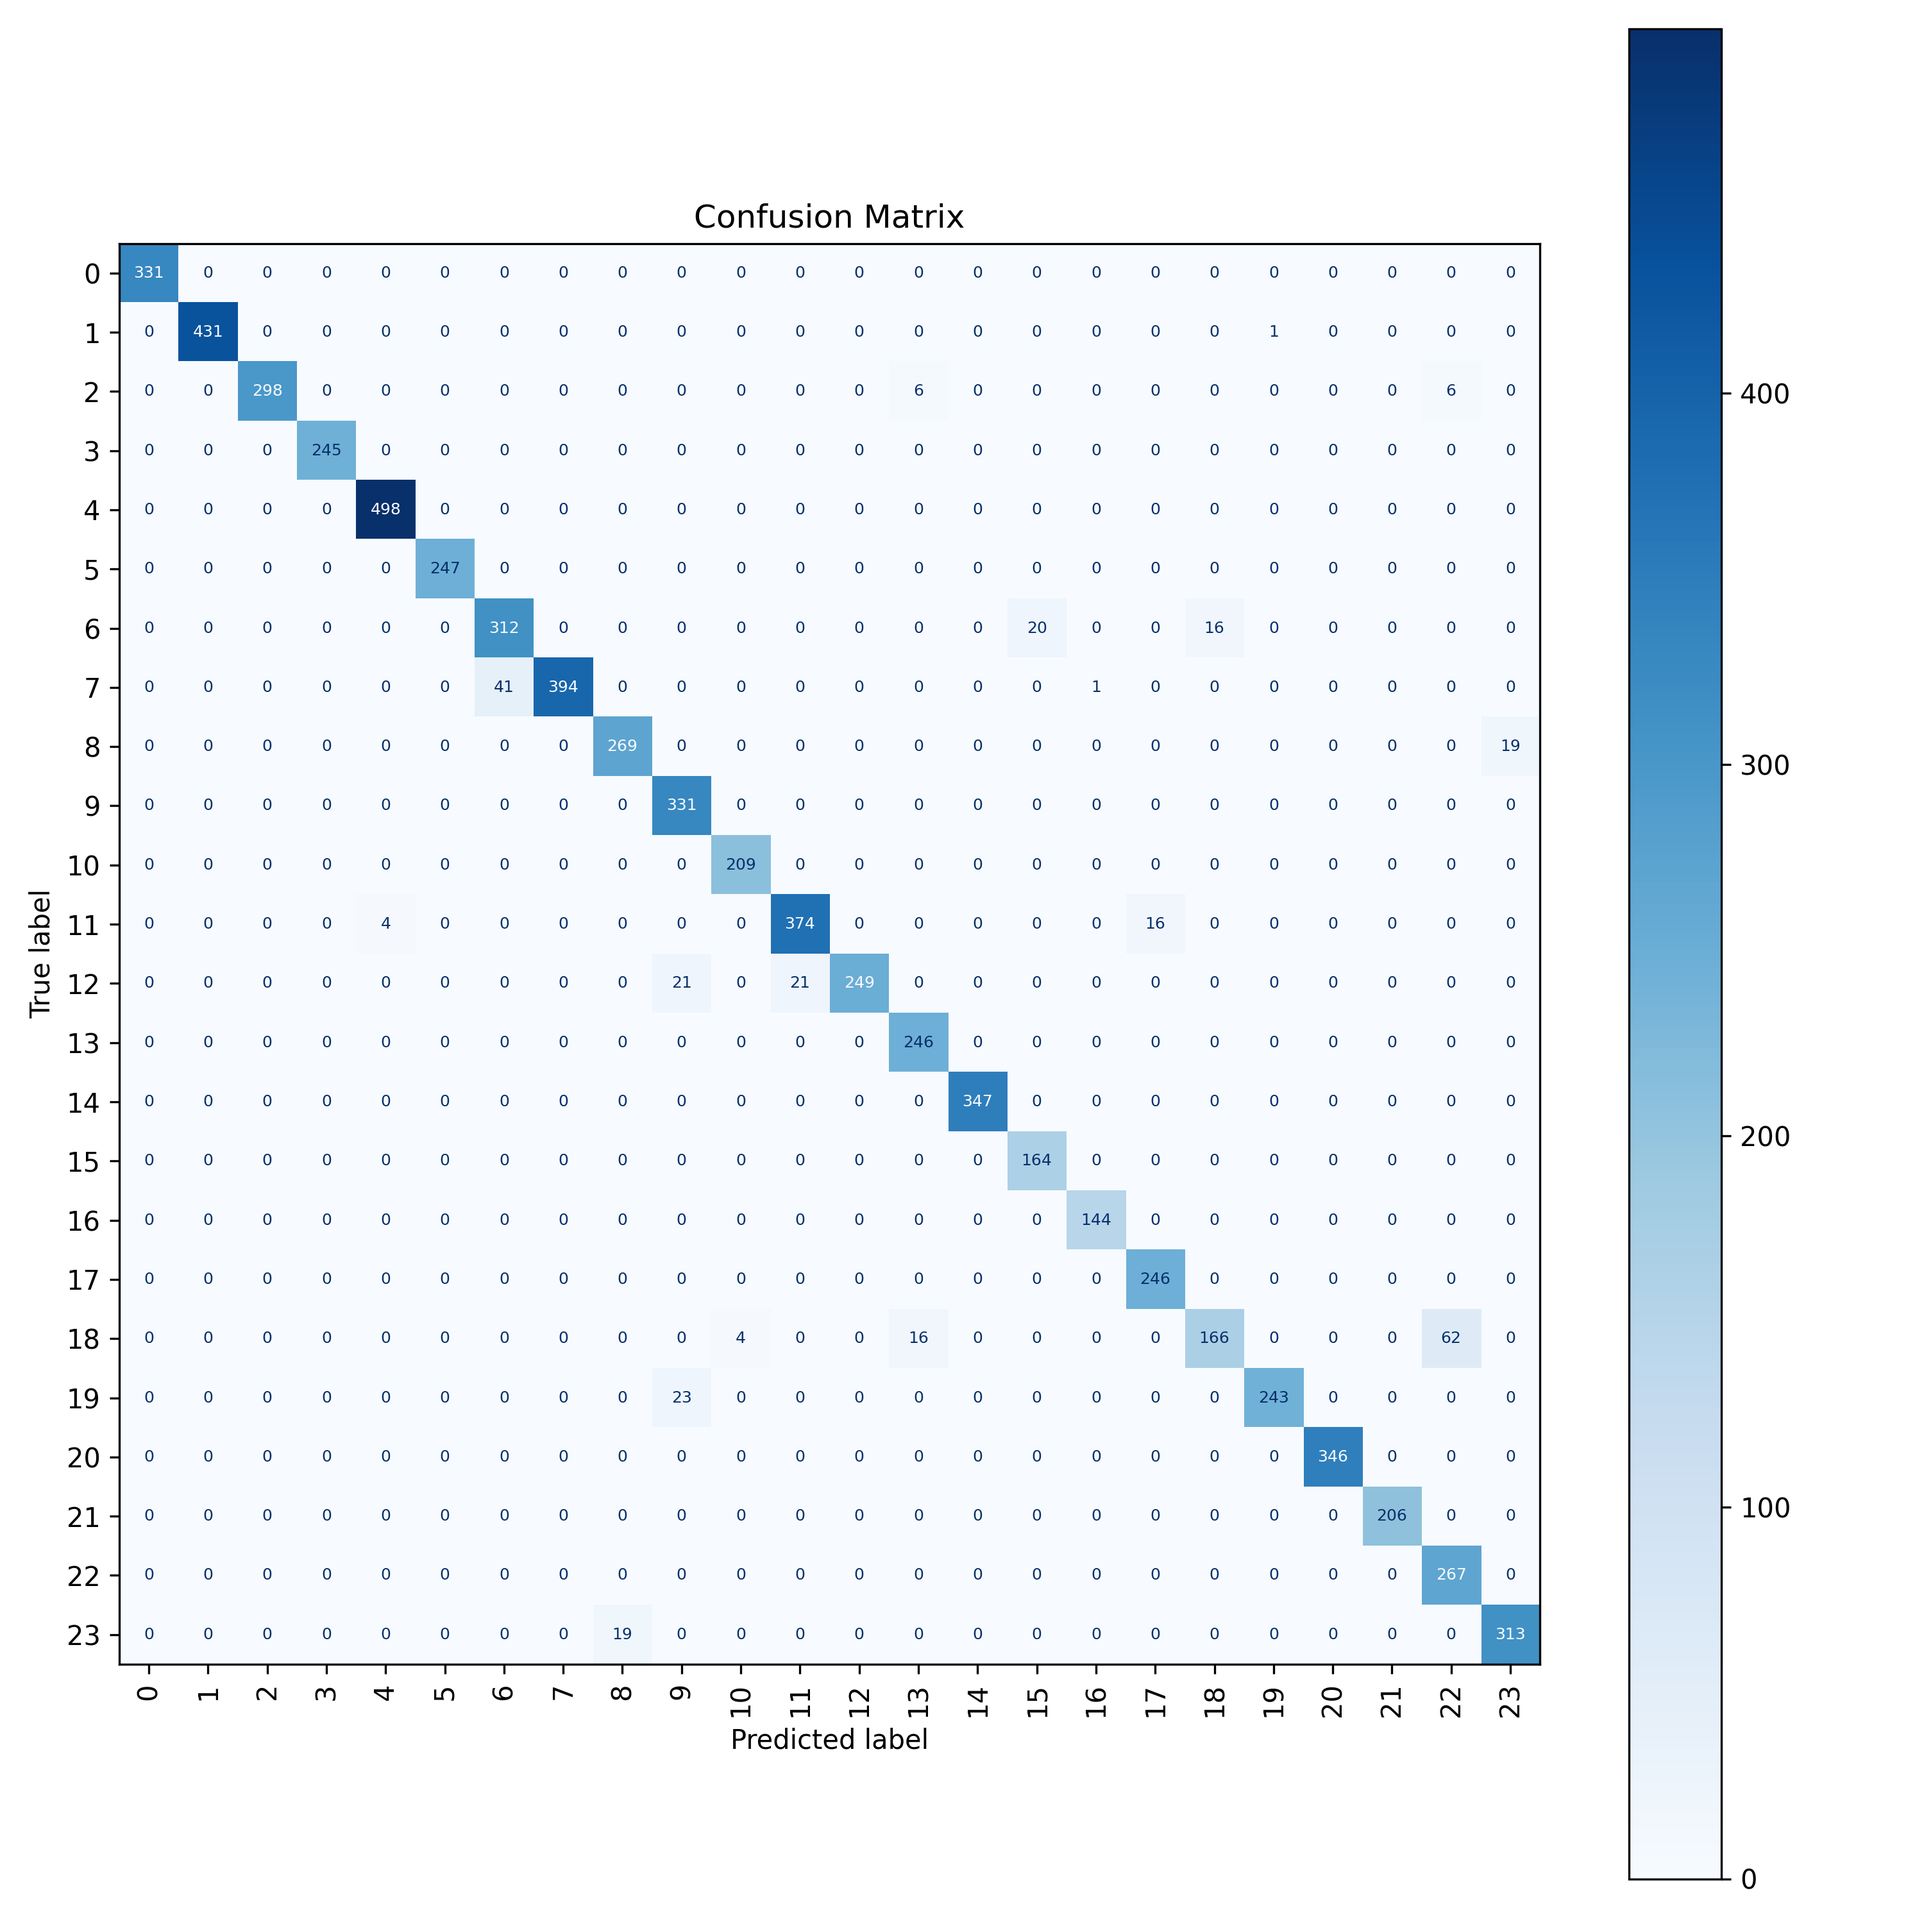
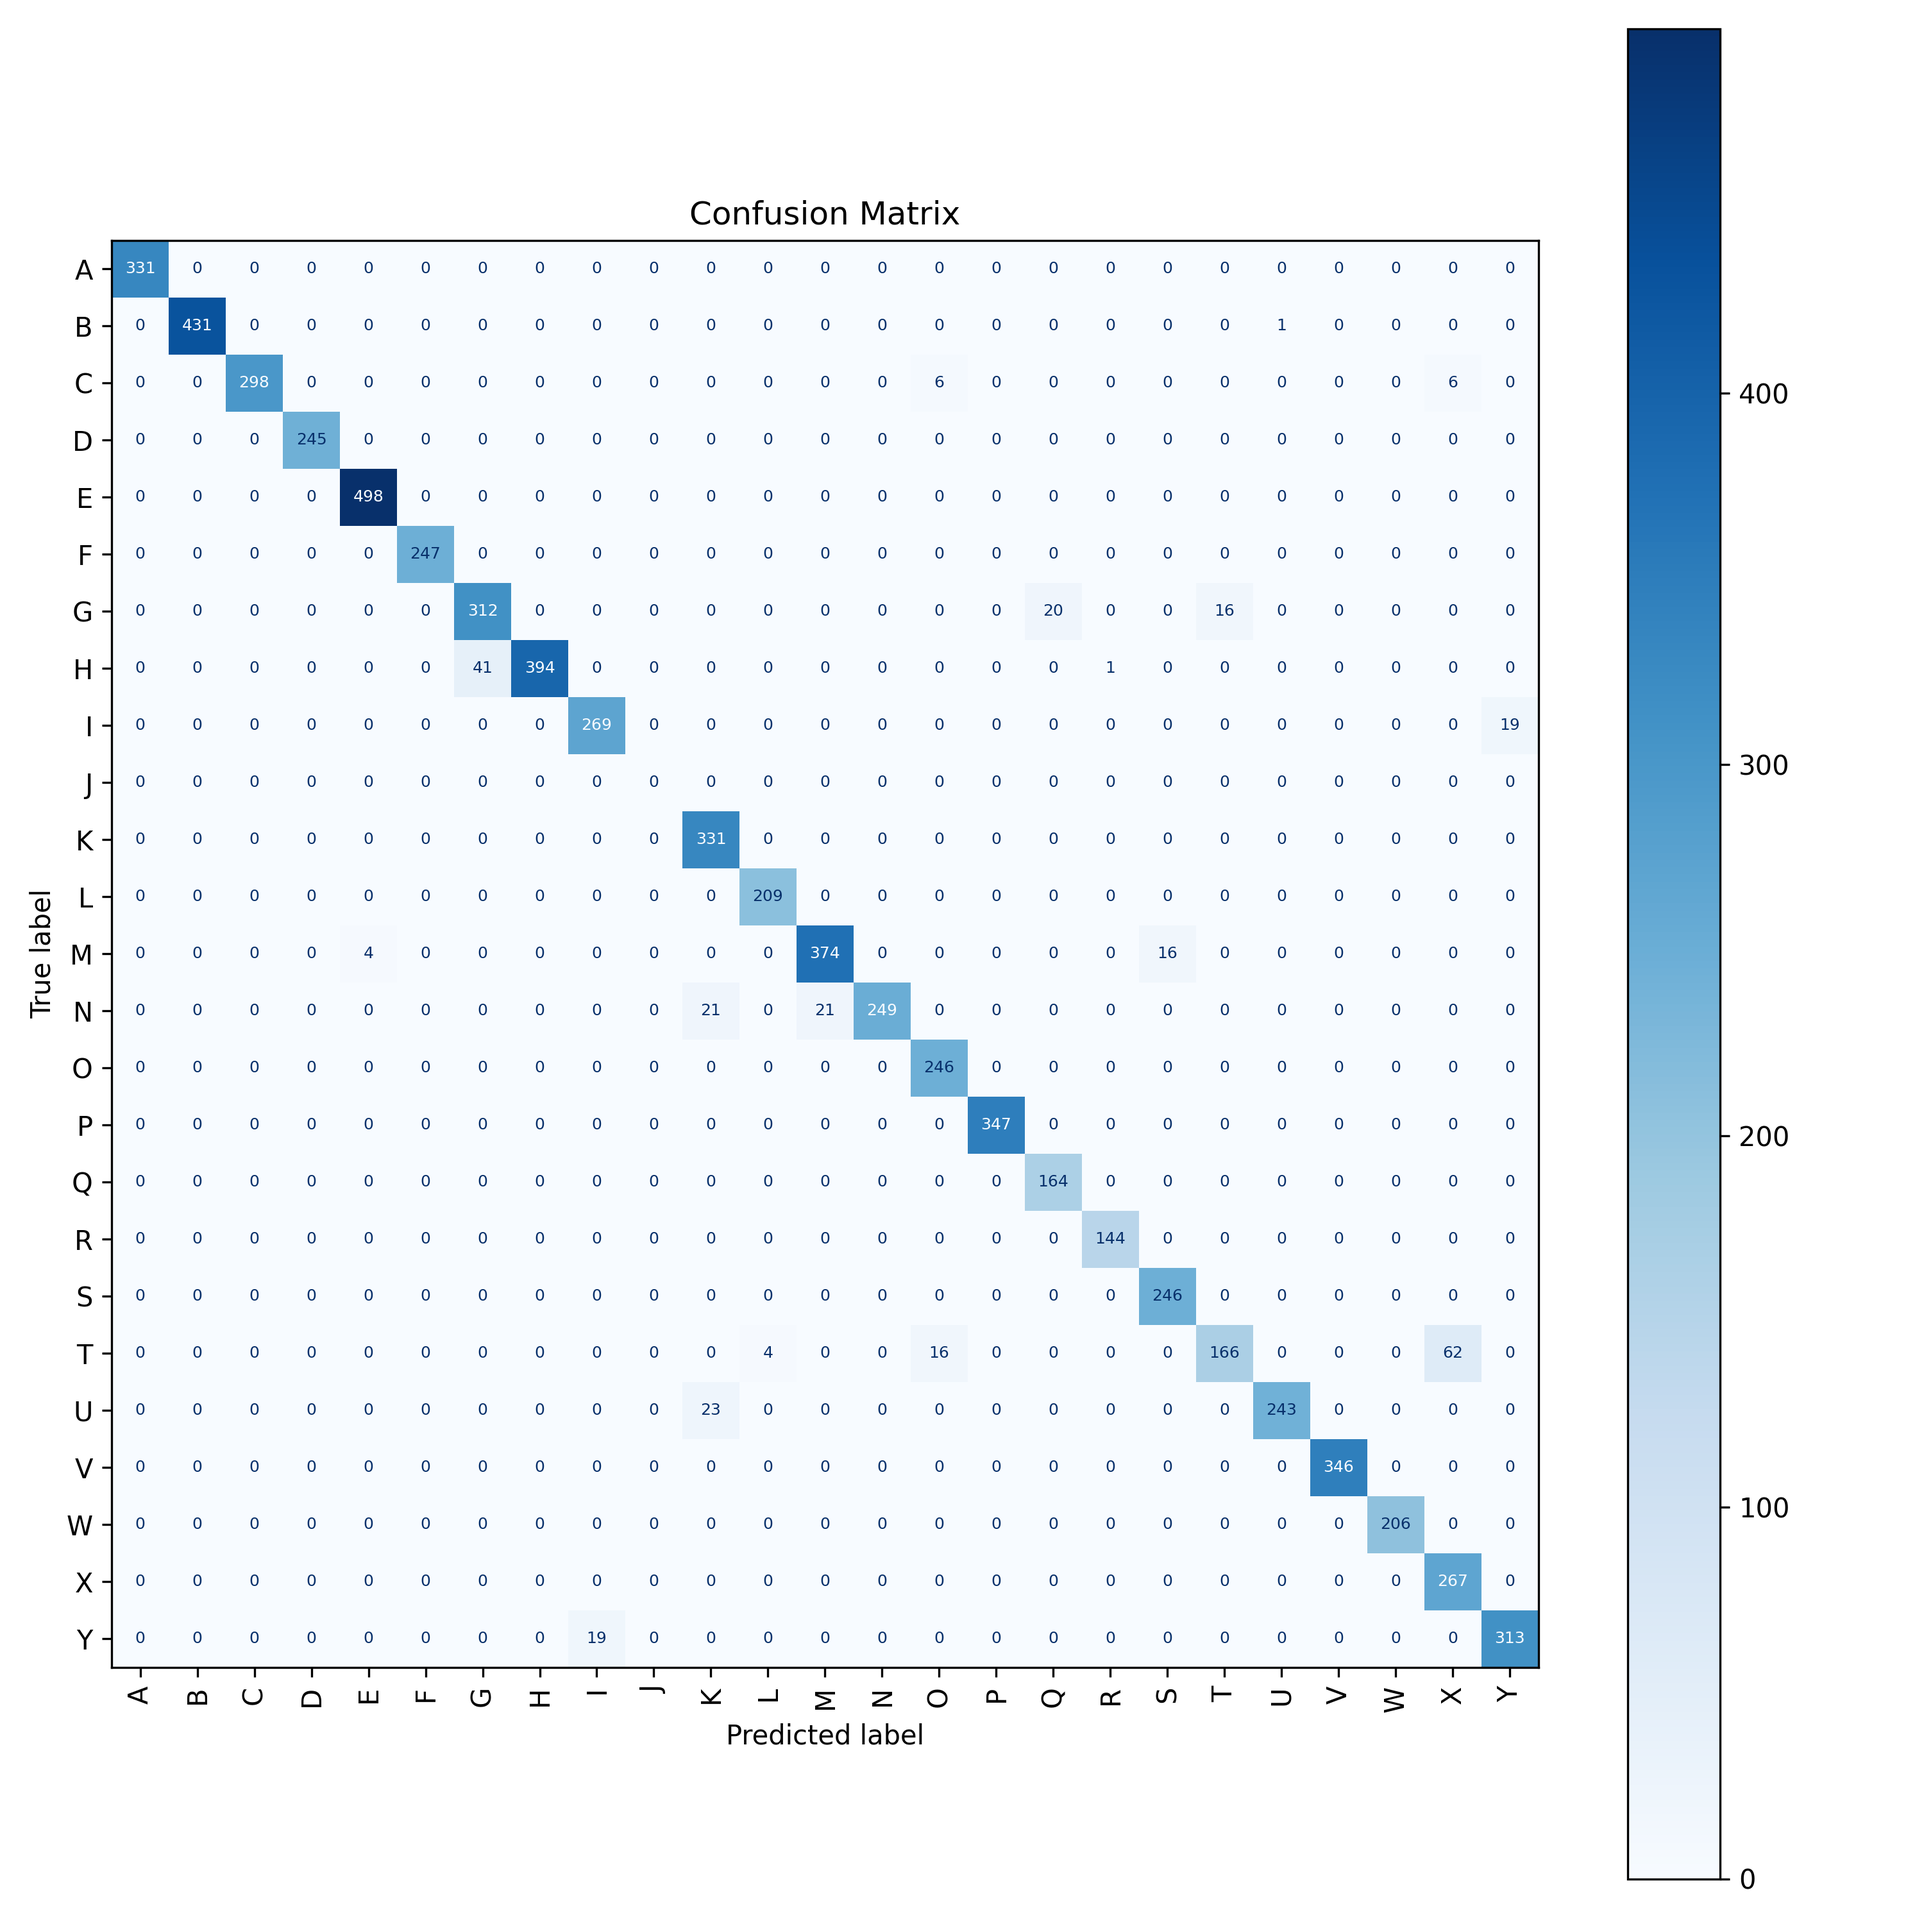
updated the code to Show per class metrics

diff --git a/test.py b/test.py
@@ -7,9 +7,10 @@ import pandas as pd
 import numpy as np
 import matplotlib.pyplot as plt
 from sklearn.metrics import confusion_matrix, ConfusionMatrixDisplay
+from sklearn.metrics import classification_report  # <-- NEW
 
 # -------------------------------------------------
-# Make output directory for images
+# Make output directory for images/reports
 # -------------------------------------------------
 os.makedirs("outputs", exist_ok=True)
 
@@ -28,7 +29,7 @@ class SignLanguageMNIST(Dataset):
 
     def __getitem__(self, idx):
         img = self.images[idx]
-        label = self.labels[idx]
+        label = int(self.labels[idx])
         if self.transform:
             img = self.transform(img)
         return img, label
@@ -71,6 +72,27 @@ class CNN(nn.Module):
         return x
 
 # -------------------------------------------------
+# Helper: class id -> letter names
+# -------------------------------------------------
+def make_class_names(num_classes: int):
+    """
+    Tries to produce reasonable letter labels.
+    - 26 -> A-Z
+    - 25 -> A-Y
+    - 24 -> A-I, K-Y (common Sign Language MNIST convention: J omitted)
+    Otherwise -> Class 0..N-1
+    """
+    alphabet = [chr(ord('A') + i) for i in range(26)]
+    if num_classes == 26:
+        return alphabet
+    if num_classes == 25:
+        return alphabet[:25]  # A..Y
+    if num_classes == 24:
+        # Common Kaggle Sign Language MNIST: J omitted (dynamic gesture)
+        return alphabet[:9] + alphabet[10:25]  # A..I + K..Y
+    return [f"Class {i}" for i in range(num_classes)]
+
+# -------------------------------------------------
 # Load Model
 # -------------------------------------------------
 device = torch.device("cuda" if torch.cuda.is_available() else "cpu")
@@ -79,6 +101,9 @@ model.load_state_dict(torch.load("sign_model.pt", map_location=device))
 model.eval()
 
 print("\nModel Loaded: sign_model.pt\n")
+
+num_classes = model.fc2.out_features
+class_names = make_class_names(num_classes)
 
 # -------------------------------------------------
 # Evaluate Model
@@ -92,59 +117,75 @@ with torch.no_grad():
     for images, labels in test_loader:
         images, labels = images.to(device), labels.to(device)
         outputs = model(images)
-
-        _, predicted = torch.max(outputs.data, 1)
+        predicted = torch.argmax(outputs, dim=1)
 
         total += labels.size(0)
         correct += (predicted == labels).sum().item()
 
-        all_preds.extend(predicted.cpu().numpy())
-        all_labels.extend(labels.cpu().numpy())
+        all_preds.extend(predicted.cpu().numpy().tolist())
+        all_labels.extend(labels.cpu().numpy().tolist())
 
 accuracy = 100 * correct / total
-print(f"Test Accuracy: {accuracy:.2f}%")
+print(f"Test Accuracy: {accuracy:.2f}%\n")
 
 # -------------------------------------------------
-# Confusion Matrix (SAVE + SHOW)
+# Per-class Precision/Recall/F1 (PRINT + SAVE CSV)
 # -------------------------------------------------
-# cm = confusion_matrix(all_labels, all_preds)
-# disp = ConfusionMatrixDisplay(cm)
-# disp.plot(cmap="Blues", xticks_rotation="vertical")
-# plt.title("Confusion Matrix")
-# plt.tight_layout()
-# plt.savefig("outputs/confusion_matrix.png", dpi=300, bbox_inches="tight")
-# plt.show()
+# Force the report to include every class 0..num_classes-1 even if some don't appear
+labels_order = list(range(num_classes))
+
+report_dict = classification_report(
+    all_labels,
+    all_preds,
+    labels=labels_order,
+    target_names=class_names,
+    output_dict=True,
+    digits=4,
+    zero_division=0
+)
+
+# Pretty print
+report_text = classification_report(
+    all_labels,
+    all_preds,
+    labels=labels_order,
+    target_names=class_names,
+    digits=4,
+    zero_division=0
+)
+print("Per-class metrics (Precision / Recall / F1):")
+print(report_text)
+
+# Save to CSV
+df_report = pd.DataFrame(report_dict).T
+df_report.to_csv("outputs/per_class_metrics.csv", index=True)
+print("Saved: outputs/per_class_metrics.csv\n")
 
 # -------------------------------------------------
-# Confusion Matrix (SAVE + SHOW)
+# Confusion Matrix (SAVE + SHOW) with letter labels
 # -------------------------------------------------
-cm = confusion_matrix(all_labels, all_preds)
+cm = confusion_matrix(all_labels, all_preds, labels=labels_order)
 
-fig, ax = plt.subplots(figsize=(10, 10))   # <-- bigger figure
-disp = ConfusionMatrixDisplay(cm)
+fig, ax = plt.subplots(figsize=(10, 10))
+disp = ConfusionMatrixDisplay(confusion_matrix=cm, display_labels=class_names)
 
 disp.plot(
     cmap="Blues",
     xticks_rotation="vertical",
     ax=ax,
-    values_format='d'                      # <-- show integers
+    values_format='d'
 )
 
-# make the text smaller so it fits in each cell
 for txt in disp.text_.ravel():
-    txt.set_fontsize(6)                   # try 5–8 and see what you like
+    txt.set_fontsize(6)
 
 plt.title("Confusion Matrix")
 plt.tight_layout()
 plt.savefig("outputs/confusion_matrix.png", dpi=300)
 plt.show()
 
-
-
-
-
 # -------------------------------------------------
-# Show 12 Predictions (SAVE + SHOW)
+# Show 12 Predictions (SAVE + SHOW) with letter labels
 # -------------------------------------------------
 import random
 fig, axes = plt.subplots(3, 4, figsize=(12, 9))
@@ -157,12 +198,14 @@ for ax in axes.flatten():
         output = model(img.unsqueeze(0).to(device))
         pred = torch.argmax(output).item()
 
-    # Undo normalization for proper display: from [-1,1] back to [0,1]
     img_vis = img * 0.5 + 0.5
     img_vis = img_vis.squeeze().numpy()
 
+    true_name = class_names[true_label] if 0 <= true_label < len(class_names) else str(true_label)
+    pred_name = class_names[pred] if 0 <= pred < len(class_names) else str(pred)
+
     ax.imshow(img_vis, cmap="gray")
-    ax.set_title(f"True: {true_label} | Pred: {pred}")
+    ax.set_title(f"True: {true_name} | Pred: {pred_name}")
     ax.axis("off")
 
 plt.tight_layout()
